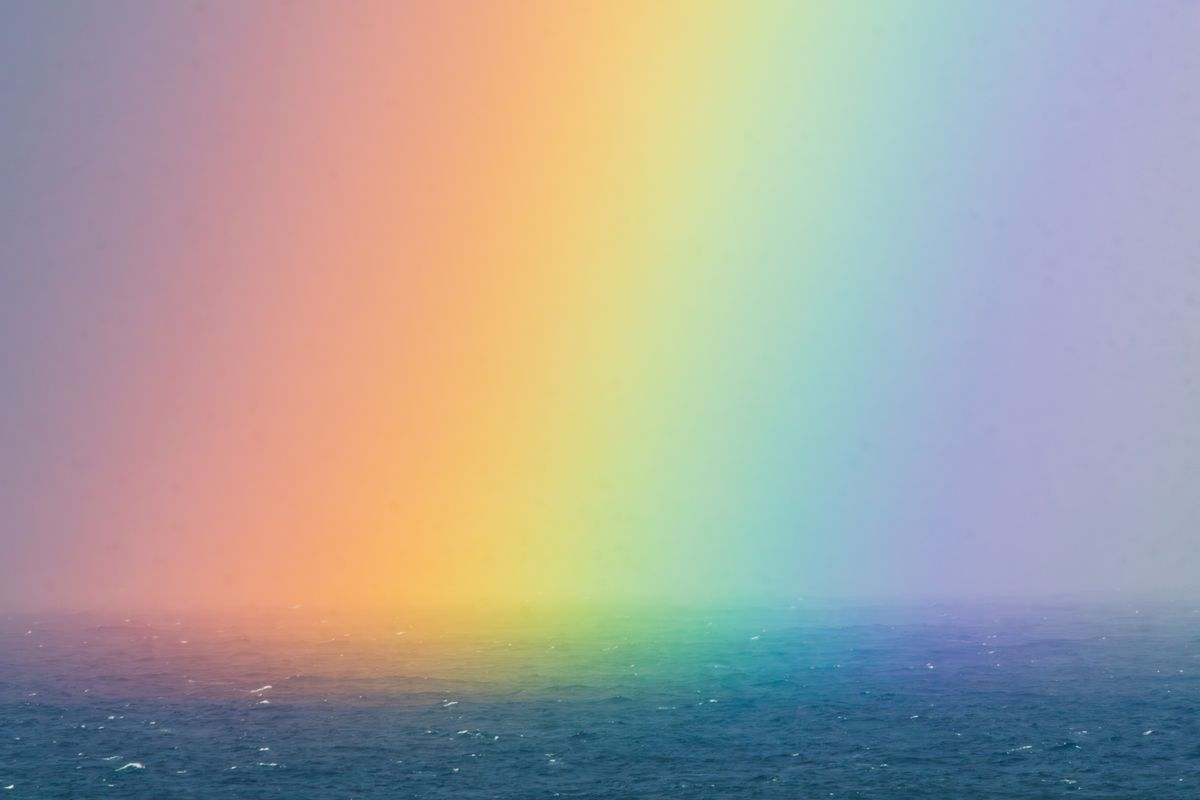
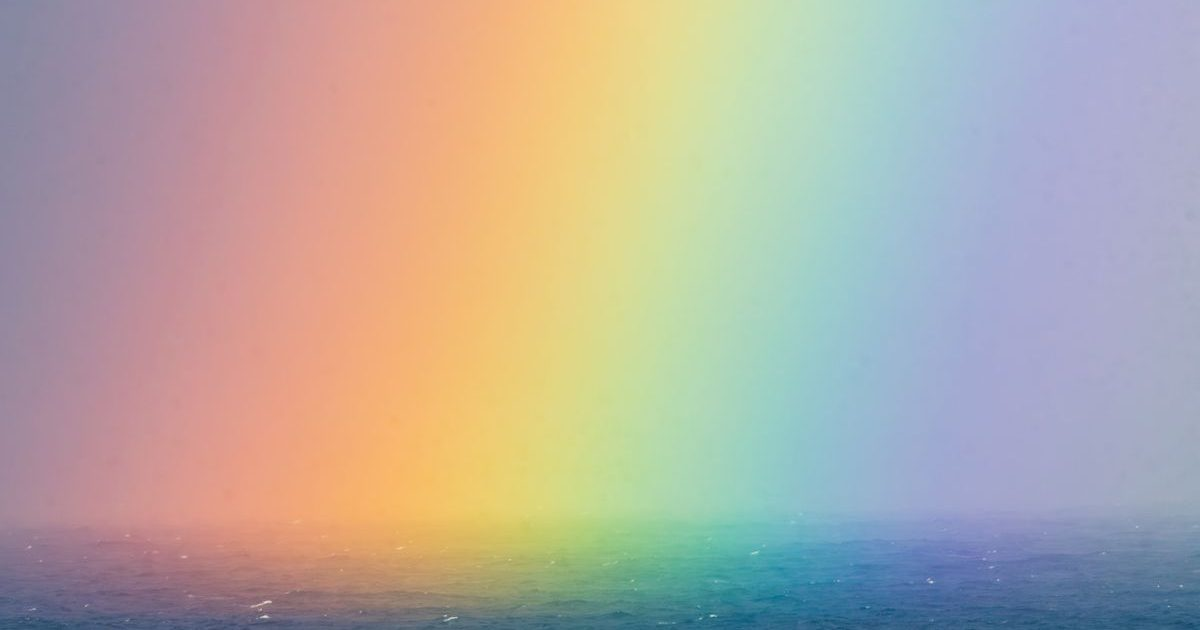
Fix opengraph.xyz warnings: image aspect ratio, title length, site_name
- Recrop share image to the standard 1200x630 (1.91:1) OG aspect ratio
  instead of 1200x800, so platforms don't crop/letterbox it
- Expand homepage <title> from 9 to 60 characters to use SERP space
- Add og:site_name so Discord/other embeds don't look anonymous

Changed region(s): [[0.0, 0.754, 1.0, 1.0]]

diff --git a/index.html b/index.html
@@ -4,7 +4,7 @@
 <head>
 <meta charset="UTF-8">
 <meta name="viewport" content="width=device-width, initial-scale=1.0">
-<title>AiLoveYou</title>
+<title>AiLoveYou.ai &mdash; A Daily AI-Written Photo &amp; Caption About Love</title>
 <meta name="description" content="A new AI-written photo and caption about love, every day. A small dose of warmth from AiLoveYou.ai.">
 <meta name="author" content="AiLoveYou.ai">
 <link rel="canonical" href="https://ailoveyou.ai/">
@@ -12,6 +12,7 @@
 <!-- SEO:START -->
 <meta property="og:type" content="website">
 <meta property="og:url" content="https://ailoveyou.ai/">
+<meta property="og:site_name" content="AiLoveYou.ai">
 <meta property="og:title" content="AiLoveYou &mdash; Hey, I love you.">
 <meta property="og:description" content="As the sun rises above the clouds, love quietly settles like morning mist&mdash;gentle, unseen, yet holding the whole valley close.">
 <meta property="og:image" content="https://ailoveyou.ai/images/ailoveyou-share.jpg">

diff --git a/archive.html b/archive.html
@@ -8,6 +8,7 @@
 <link rel="canonical" href="https://ailoveyou.ai/archive.html">
 <meta property="og:type" content="website">
 <meta property="og:url" content="https://ailoveyou.ai/archive.html">
+<meta property="og:site_name" content="AiLoveYou.ai">
 <meta property="og:title" content="AiLoveYou &mdash; Archive">
 <meta property="og:description" content="Past daily photos and captions from AiLoveYou.ai.">
 <meta property="og:image" content="https://ailoveyou.ai/images/ailoveyou-logo.png">